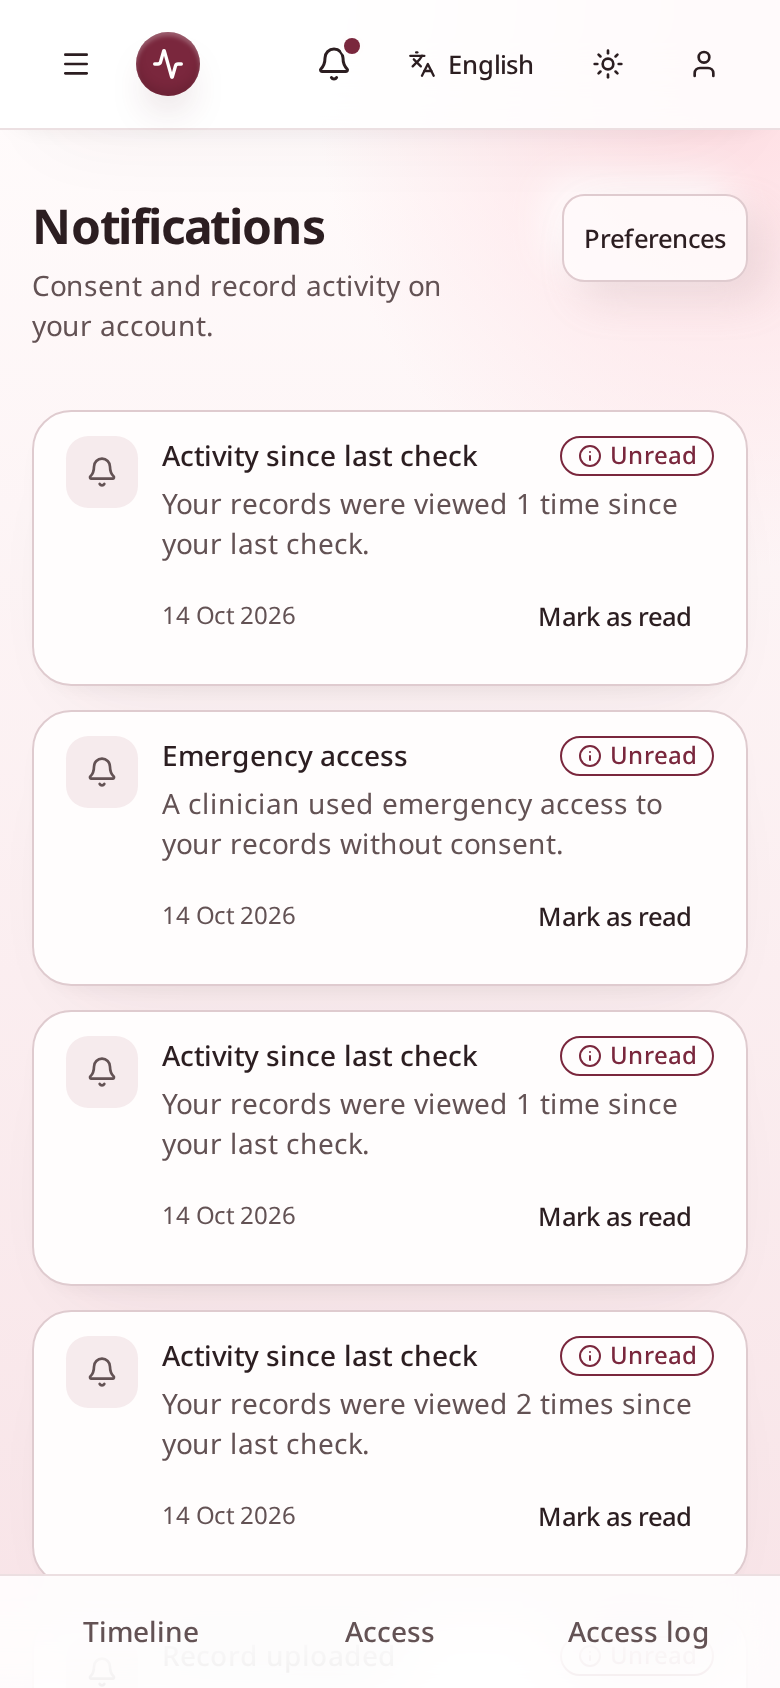
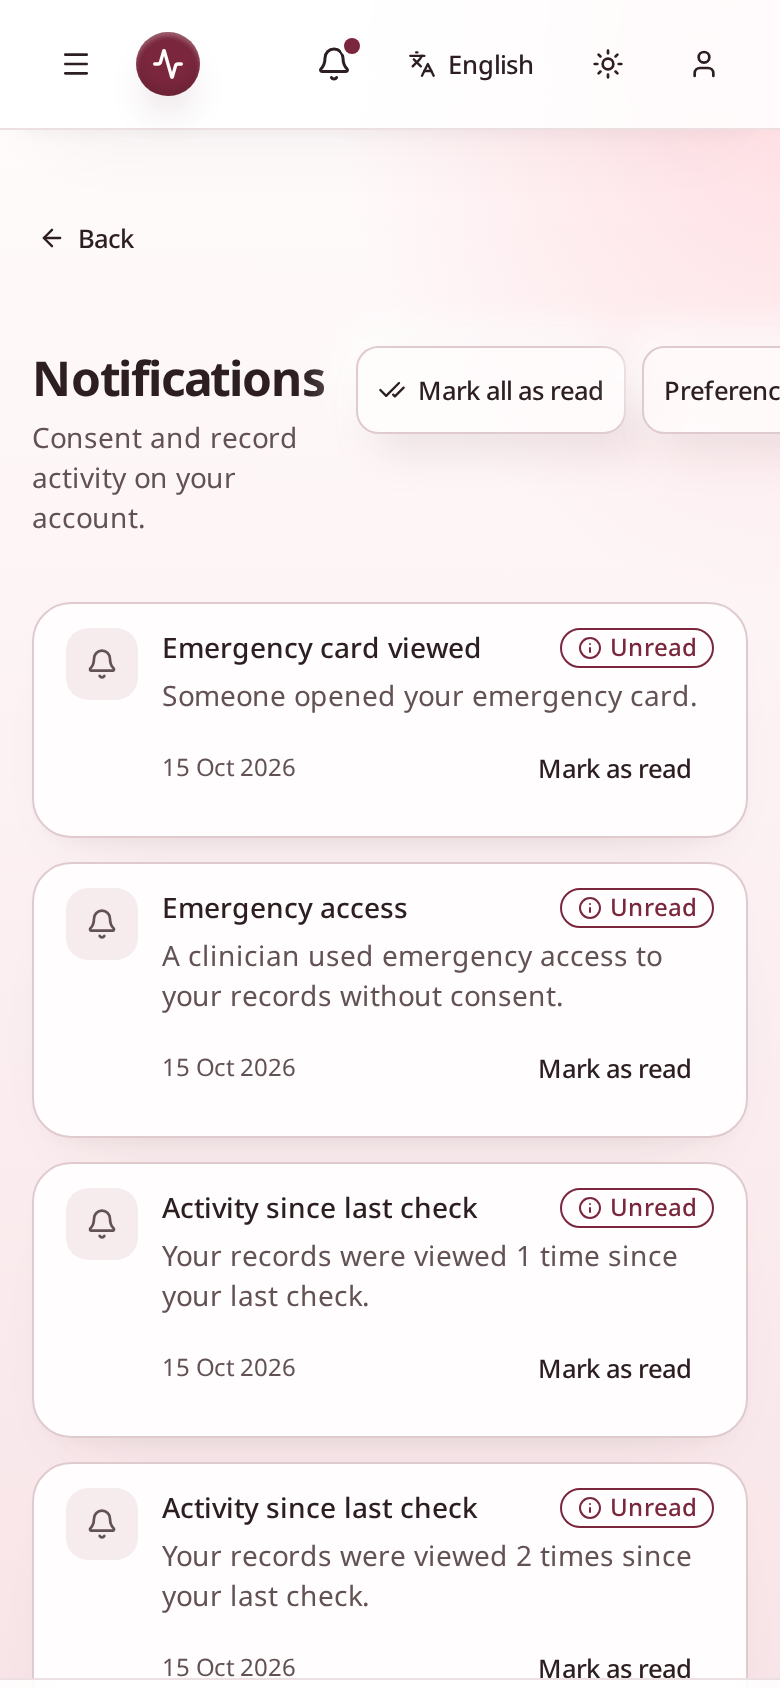
docs(site): recapture screenshots, add emergency card and scan shots

diff --git a/site/README.md b/site/README.md
@@ -33,6 +33,6 @@ The visual authority is [`../DESIGN.md`](../DESIGN.md) and the application theme
 
 ## Screenshots and publishing
 
-The 29 images in `src/assets/screens/` are genuine captures of seeded synthetic data, recorded by [`scripts/capture.mjs`](scripts/capture.mjs). The capture script creates entries and exercises consent, correction and emergency access, so use a disposable fresh demo stack. Never run it against real patient data or a database you need to preserve. See the repository [running guide](../RUNNING.md) for demo setup.
+The 32 images in `src/assets/screens/` are genuine captures of seeded synthetic data, recorded by [`scripts/capture.mjs`](scripts/capture.mjs). The capture script creates entries and exercises consent, correction and emergency access, so use a disposable fresh demo stack. Never run it against real patient data or a database you need to preserve. See the repository [running guide](../RUNNING.md) for demo setup.
 
 The [Pages workflow](../.github/workflows/pages.yml) checks and publishes pushes to `main`; pull requests run its checks without publishing. Team and course credits intentionally remain placeholders in `facts.ts`, awaiting confirmation. There is no demo video to embed.
